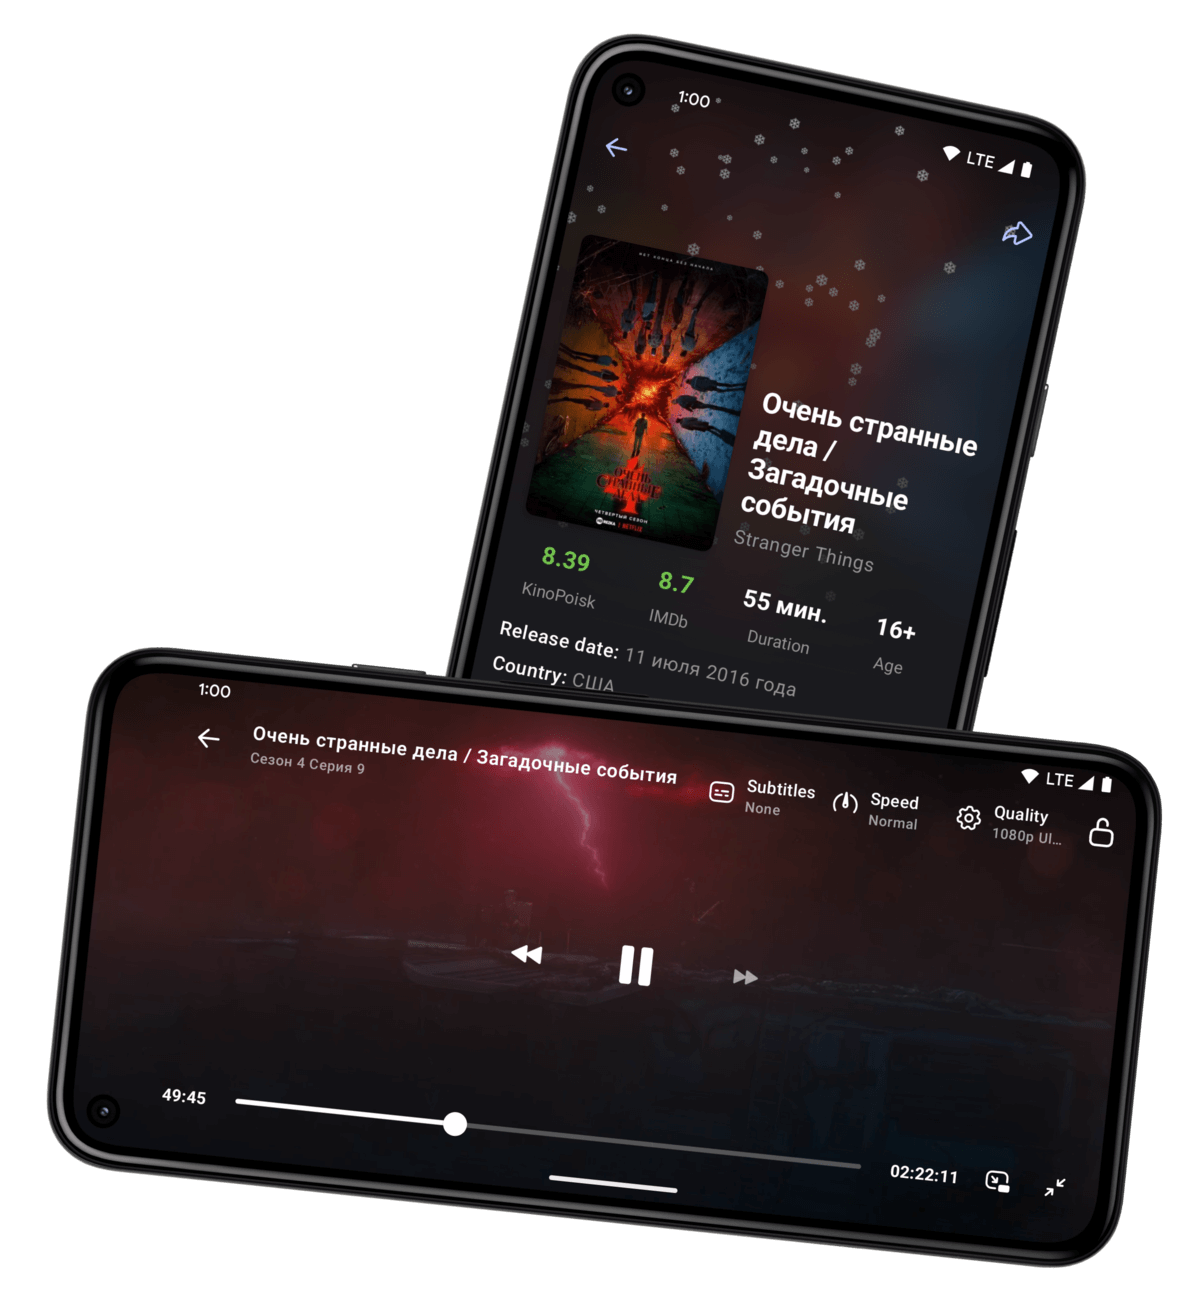
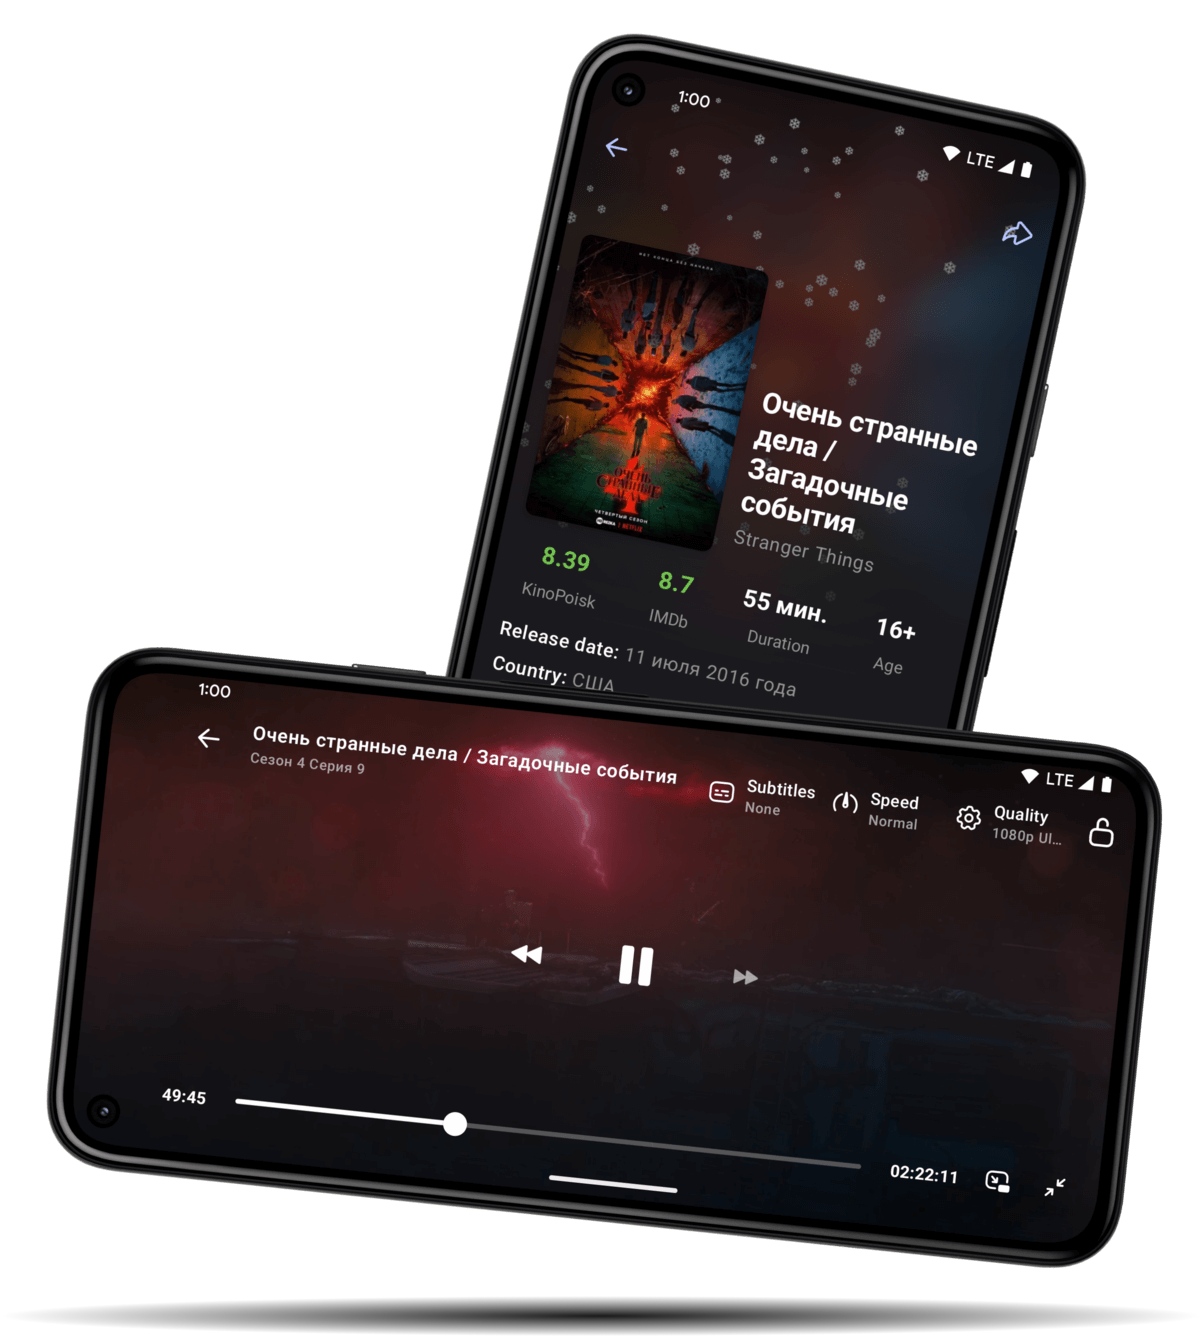
1

diff --git a/style.css b/style.css
@@ -51,8 +51,6 @@ canvas {
     position: absolute;
     top: 0;
     left: 0;
-    width: 100%;
-    height: 100%;
     z-index: -100;
 }
 
@@ -196,6 +194,7 @@ canvas {
     display: -moz-box;
     display: -ms-flexbox;
     display: flex;
+    flex: 1;
     -webkit-box-orient: vertical;
     -webkit-box-direction: normal;
     -webkit-flex-direction: column;
@@ -204,8 +203,6 @@ canvas {
     -ms-flex-direction: column;
     flex-direction: column;
     padding: 12vmin 0;
-    width: 50%;
-    height: 100%;
     -webkit-box-pack: justify;
     -webkit-justify-content: space-between;
     -moz-box-pack: justify;
@@ -272,25 +269,6 @@ canvas {
     animation: fade 10s ease-in-out infinite;
 }
 
-.screenshots::after {
-    content: '';
-    position: absolute;
-    display: block;
-    width: 90%;
-    height: 2%;
-    bottom: 0;
-    left: 50%;
-    -webkit-transform: translateX(-50%);
-    -moz-transform: translateX(-50%);
-    -ms-transform: translateX(-50%);
-    -o-transform: translateX(-50%);
-    transform: translateX(-50%);
-    background: -webkit-radial-gradient(#1a1a1a, transparent 75%);
-    background: -moz-radial-gradient(#1a1a1a, transparent 75%);
-    background: -o-radial-gradient(#1a1a1a, transparent 75%);
-    background: radial-gradient(#1a1a1a, transparent 75%);
-}
-
 @media (max-width: 768px) {
     .page {
         -webkit-box-orient: vertical;
@@ -304,8 +282,6 @@ canvas {
     }
 
     .section {
-        width: 100%;
-        height: 50%;
         padding: 0;
         -webkit-box-align: center;
         -webkit-align-items: center;
@@ -332,31 +308,6 @@ canvas {
         border-radius: 3vmin;
     }
 }
-
-/* @media (prefers-color-scheme: dark) {
-    body {
-        background-color: #1a1a1a;
-    }
-
-    .info {
-        color: #ffffffb2;
-    }
-
-    .telegram {
-        background-color: #222222cc;
-    }
-
-    .telegram:hover {
-        background-color: #333333cc;
-    }
-
-    .screenshots picture::before {
-        background: -webkit-radial-gradient(#1a1a1a, transparent 75%);
-        background: -moz-radial-gradient(#1a1a1a, transparent 75%);
-        background: -o-radial-gradient(#1a1a1a, transparent 75%);
-        background: radial-gradient(#1a1a1a, transparent 75%);
-    }
-} */
 
 @keyframes fade {
     0%,

diff --git a/script.js b/script.js
@@ -56,8 +56,7 @@ class Perlin {
 }
 
 class Snowflake {
-    constructor(theme) {
-        this.snowflake = createSnowflake(theme);
+    constructor() {
         this.posX = rand(0, w);
         this.posY = rand(0, h);
         this.rotation = rand(0, Math.PI / 3);
@@ -101,7 +100,7 @@ const MIN_SIZE = 10,
 
 let noise;
 
-let snowTheme;
+let snowflake, snowTheme;
 
 let w = 0,
     h = 0;
@@ -113,15 +112,18 @@ function setup() {
     h = window.innerHeight;
     createCanvas(w, h);
 
-    snowTheme === theme;
+    snowTheme = theme;
+    snowflake = createSnowflake(snowTheme);
 
     noise = new Perlin();
 }
 
 function draw() {
     if (snowTheme !== theme) {
-        snow.splice(0, snow.length);
         snowTheme = theme;
+
+        snowflake.remove();
+        snowflake = createSnowflake(snowTheme);
     }
 
     while (snow.length > Math.floor((w * h) / SNOWFLAKE_PER_PIXEL)) {
@@ -132,7 +134,7 @@ function draw() {
         frameCount % 10 === 0 &&
         snow.length < Math.floor((w * h) / SNOWFLAKE_PER_PIXEL)
     ) {
-        snow.push(new Snowflake(theme));
+        snow.push(new Snowflake());
     }
 
     theme === 'dark' ? background(26) : background(252, 248, 248);
@@ -141,6 +143,7 @@ function draw() {
         snow[i].update();
 
         push();
+
         translate(snow[i].posX, snow[i].posY);
         rotate(snow[i].rotation);
 
@@ -148,7 +151,8 @@ function draw() {
             tint(255, 255 * snow[i].opacity);
         }
 
-        image(snow[i].snowflake, 0, 0, snow[i].size, snow[i].size);
+        image(snowflake, 0, 0, snow[i].size, snow[i].size);
+
         pop();
     }
 }
